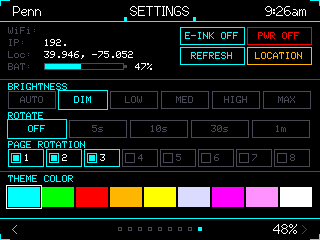
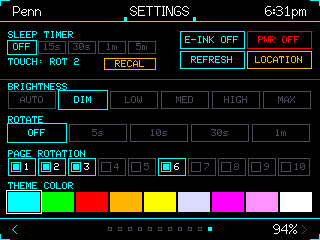
Update settings screenshot, fix screenshot.py port detection
- README now references ScreenShots/SETTINGS.png (was SETTINGS-v3.png)
- Removed old SETTINGS-2026.png from screenshots folder
- screenshot.py auto-detects CH340/CP210x serial port instead of hardcoded COM11
- Interactive menu now shows correct screen order (6=VOLCANOES, A=SETTINGS)
- Screenshot capture falls back to readPixel() if sprite allocation fails (OOM)

diff --git a/src/main.cpp b/src/main.cpp
@@ -403,83 +403,6 @@ static void redrawTo(TFT_eSPI &target) {
     }
 }
 
-static uint8_t rgb565To332(uint16_t c) {
-    uint8_t r3 = (c >> 13) & 0x07;
-    uint8_t g3 = (c >> 8)  & 0x07;
-    uint8_t b2 = (c >> 3)  & 0x03;
-    return (r3 << 5) | (g3 << 2) | b2;
-}
-
-static void fillCaptureRect(uint8_t *fb, int x, int y, int w, int h, uint8_t color) {
-    if (!fb || w <= 0 || h <= 0) return;
-    int x0 = constrain(x, 0, SCREEN_W);
-    int y0 = constrain(y, 0, SCREEN_H);
-    int x1 = constrain(x + w, 0, SCREEN_W);
-    int y1 = constrain(y + h, 0, SCREEN_H);
-    for (int yy = y0; yy < y1; yy++) {
-        memset(fb + yy * SCREEN_W + x0, color, x1 - x0);
-    }
-}
-
-static void overlayFont7CaptureText(uint8_t *fb, const char *text, int x, int y) {
-    if (!fb || !text || !text[0]) return;
-
-    tft.setTextFont(7);
-    int w = tft.textWidth(text);
-    int h = tft.fontHeight(7);
-    if (w <= 0 || h <= 0) return;
-
-    fillCaptureRect(fb, x, y, w, h, rgb565To332(COL_BG));
-
-    TFT_eSprite patch(&tft);
-    patch.setColorDepth(16);
-    uint16_t *pfb = (uint16_t*)patch.createSprite(w, h);
-    if (!pfb) return;
-
-    patch.fillSprite(COL_BG);
-    patch.setTextFont(7);
-    patch.setTextColor(COL_WHITE, COL_BG);
-    patch.setCursor(0, 0);
-    patch.print(text);
-
-    for (int py = 0; py < h; py++) {
-        int dy = y + py;
-        if (dy < 0 || dy >= SCREEN_H) continue;
-        for (int px = 0; px < w; px++) {
-            int dx = x + px;
-            if (dx < 0 || dx >= SCREEN_W) continue;
-            uint16_t c = patch.readPixel(px, py);
-            if (c != COL_BG) fb[dy * SCREEN_W + dx] = rgb565To332(c);
-        }
-    }
-
-    patch.deleteSprite();
-}
-
-static void patchNowCaptureDigits(uint8_t *fb) {
-    if (!fb || !g_current.valid) return;
-
-    const int ICY    = CONTENT_Y + 28;
-    const int ICR    = 24;
-    const int DX     = 118;
-    const int LEFT_W = DX - 8;
-    const int condY  = ICY + ICR + 5;
-    const int hiValY = condY + 16 + 4;
-    const int loValY = hiValY + 59;
-
-    char buf[8];
-    tft.setTextFont(7);
-
-    snprintf(buf, sizeof(buf), "%d", (int)roundf(g_current.today_max));
-    overlayFont7CaptureText(fb, buf, (LEFT_W - tft.textWidth(buf)) / 2, hiValY);
-
-    snprintf(buf, sizeof(buf), "%d", (int)roundf(g_current.today_min));
-    overlayFont7CaptureText(fb, buf, (LEFT_W - tft.textWidth(buf)) / 2, loValY);
-
-    snprintf(buf, sizeof(buf), "%d", (int)roundf(g_current.temp));
-    overlayFont7CaptureText(fb, buf, DX, CONTENT_Y + 12);
-}
-
 static void redraw() {
     redrawTo(tft);
     s_needsRedraw = false;
@@ -1135,23 +1058,31 @@ void loop() {
             redraw();
         }
         if (cmd == 'S' || cmd == 's') {
-            // 8-bit RGB332 capture — 16-bit sprites don't fit in free heap.
-            // Font-7 digits on the NOW screen are patched with tiny 16-bit overlays.
+            // 8-bit RGB332 capture via sprite. Uses 76KB heap — may fail on
+            // cluttered screens (Settings) due to fragmentation. Falls back to
+            // readPixel() when the sprite allocation fails.
             TFT_eSprite spr(&tft);
             spr.setColorDepth(8);
             uint8_t *fb = (uint8_t*)spr.createSprite(SCREEN_W, SCREEN_H);
             if (!fb) {
-                Serial.print("OOM:");
-                Serial.print(ESP.getFreeHeap());
-                Serial.print(",max:");
-                Serial.println(ESP.getMaxAllocHeap());
+                // Fallback: read pixels one at a time from the display.
+                // Slower but works with any heap state.
+                Serial.print("RGB332:");
+                for (int y = 0; y < SCREEN_H; y++) {
+                    for (int x = 0; x < SCREEN_W; x++) {
+                        uint16_t c = tft.readPixel(x, y);
+                        uint8_t b = ((c >> 13) & 0x07) << 5
+                                  | ((c >>  8) & 0x07) << 2
+                                  | ((c >>  3) & 0x03);
+                        Serial.write(b);
+                    }
+                }
+                Serial.flush();
             } else {
                 bool oldCapture = g_spriteCapture;
                 g_spriteCapture = false;
                 redrawTo(spr);
                 g_spriteCapture = oldCapture;
-
-                if (s_screen == 0) patchNowCaptureDigits(fb);
 
                 Serial.print("RGB332:");
                 Serial.write(fb, SCREEN_W * SCREEN_H);

diff --git a/screenshot.py b/screenshot.py
@@ -28,8 +28,20 @@ except ImportError:
     sys.exit(1)
 
 BAUD = 115200
-DEFAULT_PORT = "COM11"
 W, H = 320, 240
+
+def find_port():
+    """Auto-detect CYD serial port, or fall back to COM11."""
+    try:
+        import serial.tools.list_ports
+        for p in serial.tools.list_ports.comports():
+            if any(x in (p.description or "") for x in ["CH340", "CP210", "USB-SERIAL", "USB Serial"]):
+                return p.device
+    except Exception:
+        pass
+    return "COM11"
+
+DEFAULT_PORT = find_port()
 BASE_DIR = os.path.dirname(os.path.abspath(__file__))
 
 SCREENS = {
@@ -123,10 +135,11 @@ def ask_interactive():
     print("  3 = SOLAR")
     print("  4 = FIRES")
     print("  5 = USGS")
-    print("  6 = NEWS")
-    print("  7 = ALMANAC")
-    print("  8 = SCANNER")
-    print("  9 = SETTINGS")
+    print("  6 = VOLCANOES")
+    print("  7 = NEWS")
+    print("  8 = ALMANAC")
+    print("  9 = SCANNER")
+    print("  A = SETTINGS")
     screen_arg = input("Screen to capture [current]: ").strip() or "current"
     screen_name, screen_cmd, default_out = normalize_screen(screen_arg)
     outfile = input(f"Output file [{default_out}]: ").strip() or default_out

diff --git a/src/ui/screens/screen_settings.cpp b/src/ui/screens/screen_settings.cpp
@@ -248,7 +248,7 @@ void screenSettingsDraw(TFT_eSPI &tft, bool wifiOk) {
     tft.print("RECAL");
 
     // Divider 1
-    tft.drawFastHLine(0, DIV1_Y, SCREEN_W, g_themeColor);
+    tft.drawFastHLine(0, DIV1_Y, SCREEN_W, COL_DIM);
 
     // ── Section 2: Brightness ─────────────────────────────────────────────────
     tft.setTextFont(FONT_SM);

diff --git a/README.md b/README.md
@@ -8,7 +8,7 @@ ESP32-32E and 2USB CYD (Cheap Yellow Display) tactical monitoring station — re
 
 | NOW | ALMANAC | SETTINGS |
 |-----|---------|----------|
-| ![NOW](ScreenShots/NOW.png) | ![ALMANAC](ScreenShots/ALMANAC.png) | ![SETTINGS](ScreenShots/SETTINGS-v3.png) |
+| ![NOW](ScreenShots/NOW.png) | ![ALMANAC](ScreenShots/ALMANAC.png) | ![SETTINGS](ScreenShots/SETTINGS.png) |
 
 | HOURLY | 5-DAY | SOLAR |
 |--------|-------|-------|
